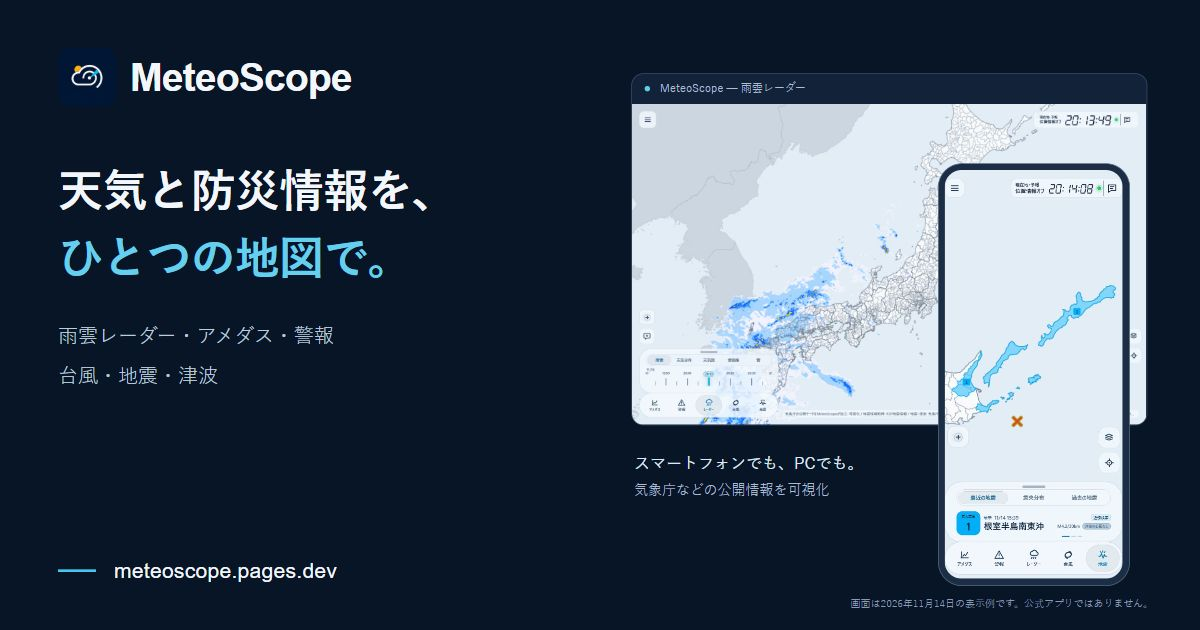
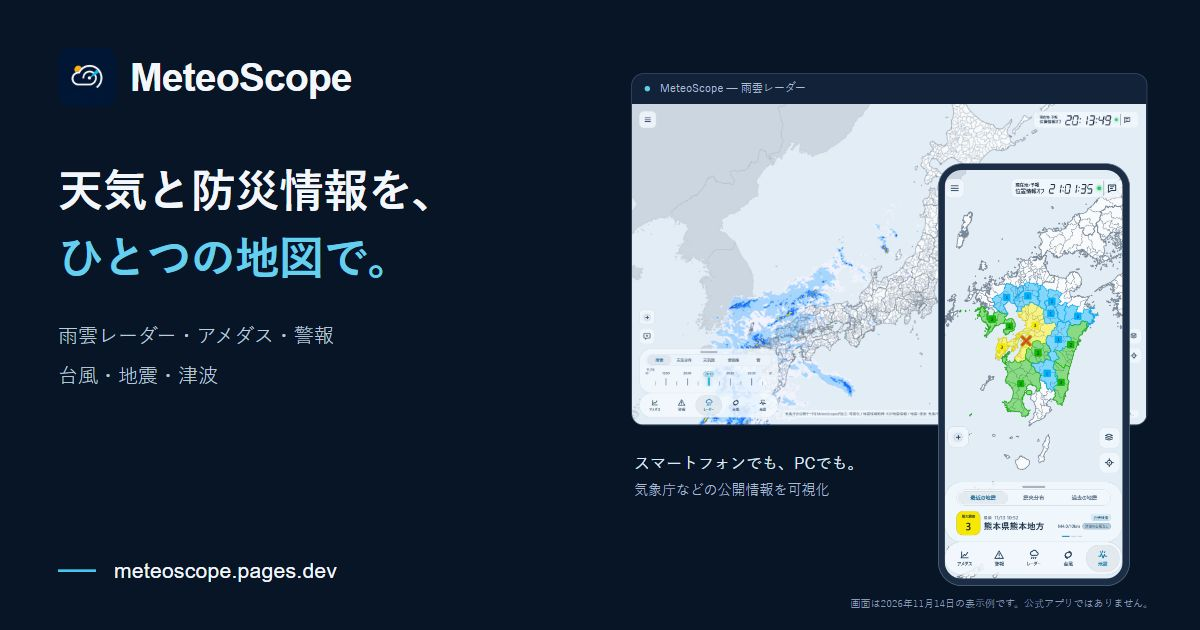
Update promotional and README screenshots with Kumamoto earthquake

diff --git a/index.html b/index.html
@@ -16,7 +16,7 @@
   <meta property="og:title" content="MeteoScope — 天気と防災情報を、ひとつの地図で。" />
   <meta property="og:description" content="雨雲レーダー・アメダス・警報・台風・地震・津波。気象庁などの公開情報を可視化する非公式Webアプリです。" />
   <meta property="og:url" content="https://meteoscope.pages.dev/" />
-  <meta property="og:image" content="https://meteoscope.pages.dev/social/meteoscope-x-banner.jpg" />
+  <meta property="og:image" content="https://meteoscope.pages.dev/social/meteoscope-x-banner.jpg?v=20261114-2" />
   <meta property="og:image:type" content="image/jpeg" />
   <meta property="og:image:width" content="1200" />
   <meta property="og:image:height" content="630" />
@@ -24,7 +24,7 @@
   <meta name="twitter:card" content="summary_large_image" />
   <meta name="twitter:title" content="MeteoScope — 天気と防災情報を、ひとつの地図で。" />
   <meta name="twitter:description" content="雨雲レーダー・アメダス・警報・台風・地震・津波を、スマートフォンでもPCでも。" />
-  <meta name="twitter:image" content="https://meteoscope.pages.dev/social/meteoscope-x-banner.jpg" />
+  <meta name="twitter:image" content="https://meteoscope.pages.dev/social/meteoscope-x-banner.jpg?v=20261114-2" />
   <meta name="twitter:image:alt" content="MeteoScopeのロゴ、雨雲レーダーと地震情報の実画面。天気と防災情報を、ひとつの地図で。" />
   <link rel="icon" type="image/png" sizes="32x32" href="%BASE_URL%icons/icon-32.png?v=20260808-4" />
   <link rel="icon" type="image/png" sizes="192x192" href="%BASE_URL%icons/icon-192.png?v=20260808-4" />

diff --git a/docs/images/meteoscope-banner.html b/docs/images/meteoscope-banner.html
@@ -40,7 +40,7 @@
     <section class="screens" aria-label="アプリの実画面">
       <div class="desktop"><header><i></i>MeteoScope — 雨雲レーダー</header><img src="radar-desktop.jpg" alt="パソコンの雨雲レーダー画面"></div>
       <div class="caption"><strong>スマートフォンでも、PCでも。</strong>気象庁などの公開情報を可視化</div>
-      <div class="mobile"><img src="earthquake-mobile.jpg" alt="スマートフォンの地震情報画面"></div>
+      <div class="mobile"><img src="earthquake-mobile.png" alt="スマートフォンで熊本県熊本地方の地震を表示した画面"></div>
     </section>
     <div class="foot"><span></span><strong>meteoscope.pages.dev</strong></div>
     <small class="note">画面は2026年11月14日の表示例です。公式アプリではありません。</small>

diff --git a/docs/images/README.md b/docs/images/README.md
@@ -1,12 +1,13 @@
 # READMEの画面画像
 
-2026年11月14日、MeteoScopeのローカル開発環境で実画面を撮影しました。
+2026年11月14日、MeteoScopeのローカル開発環境で撮影した実画面です。
+地震画面は利用者から提供された熊本県熊本地方の画面に差し替えています。
 掲載内容を作り替えたり、観測値や発表文を合成したりした画像ではありません。
 
 | ファイル | 表示サイズ | 内容 |
 | --- | --- | --- |
 | `radar-desktop.jpg` | 1440 × 900 | ライトモードの全国雨雲レーダー |
-| `earthquake-mobile.jpg` | 393 × 851 | 最近の地震と細分区域最大震度 |
+| `earthquake-mobile.png` | 590 × 1278 | 熊本県熊本地方の地震と細分区域最大震度 |
 | `weekly-mobile.jpg` | 393 × 851 | 東京地方の週間天気予報 |
 
 画像内の気象・地震情報は撮影時点の資料で、現在の状況を示しません。

diff --git a/README.md b/README.md
@@ -34,7 +34,7 @@
 
 <table>
   <tr>
-    <td align="center"><img src="docs/images/earthquake-mobile.jpg" width="270" alt="スマートフォンで最近の地震と細分区域の最大震度を表示した画面"><br><strong>地震・震度</strong></td>
+    <td align="center"><img src="docs/images/earthquake-mobile.png" width="270" alt="スマートフォンで熊本県熊本地方の地震と細分区域の最大震度を表示した画面"><br><strong>地震・震度</strong></td>
     <td align="center"><img src="docs/images/weekly-mobile.jpg" width="270" alt="スマートフォンで東京地方の週間天気予報を表示した画面"><br><strong>週間天気予報</strong></td>
   </tr>
 </table>
